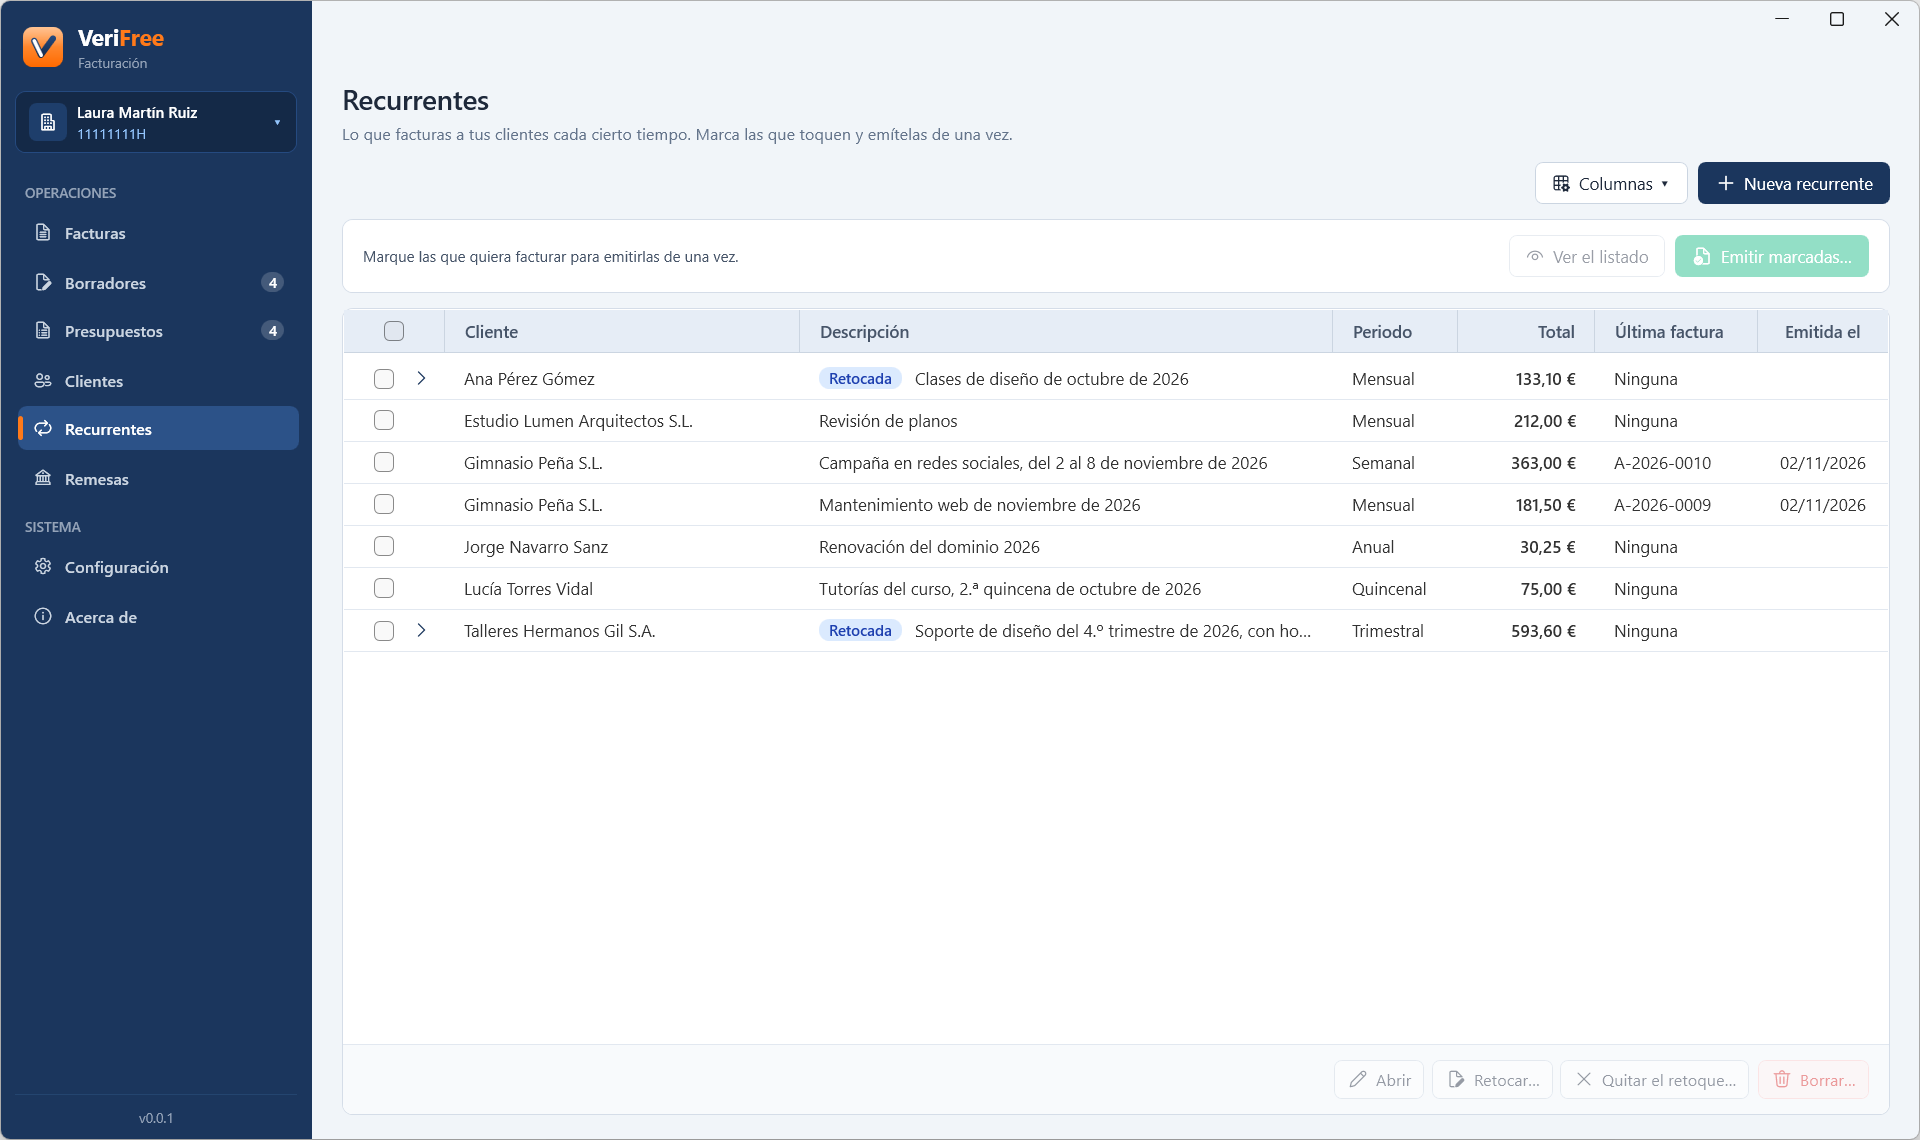
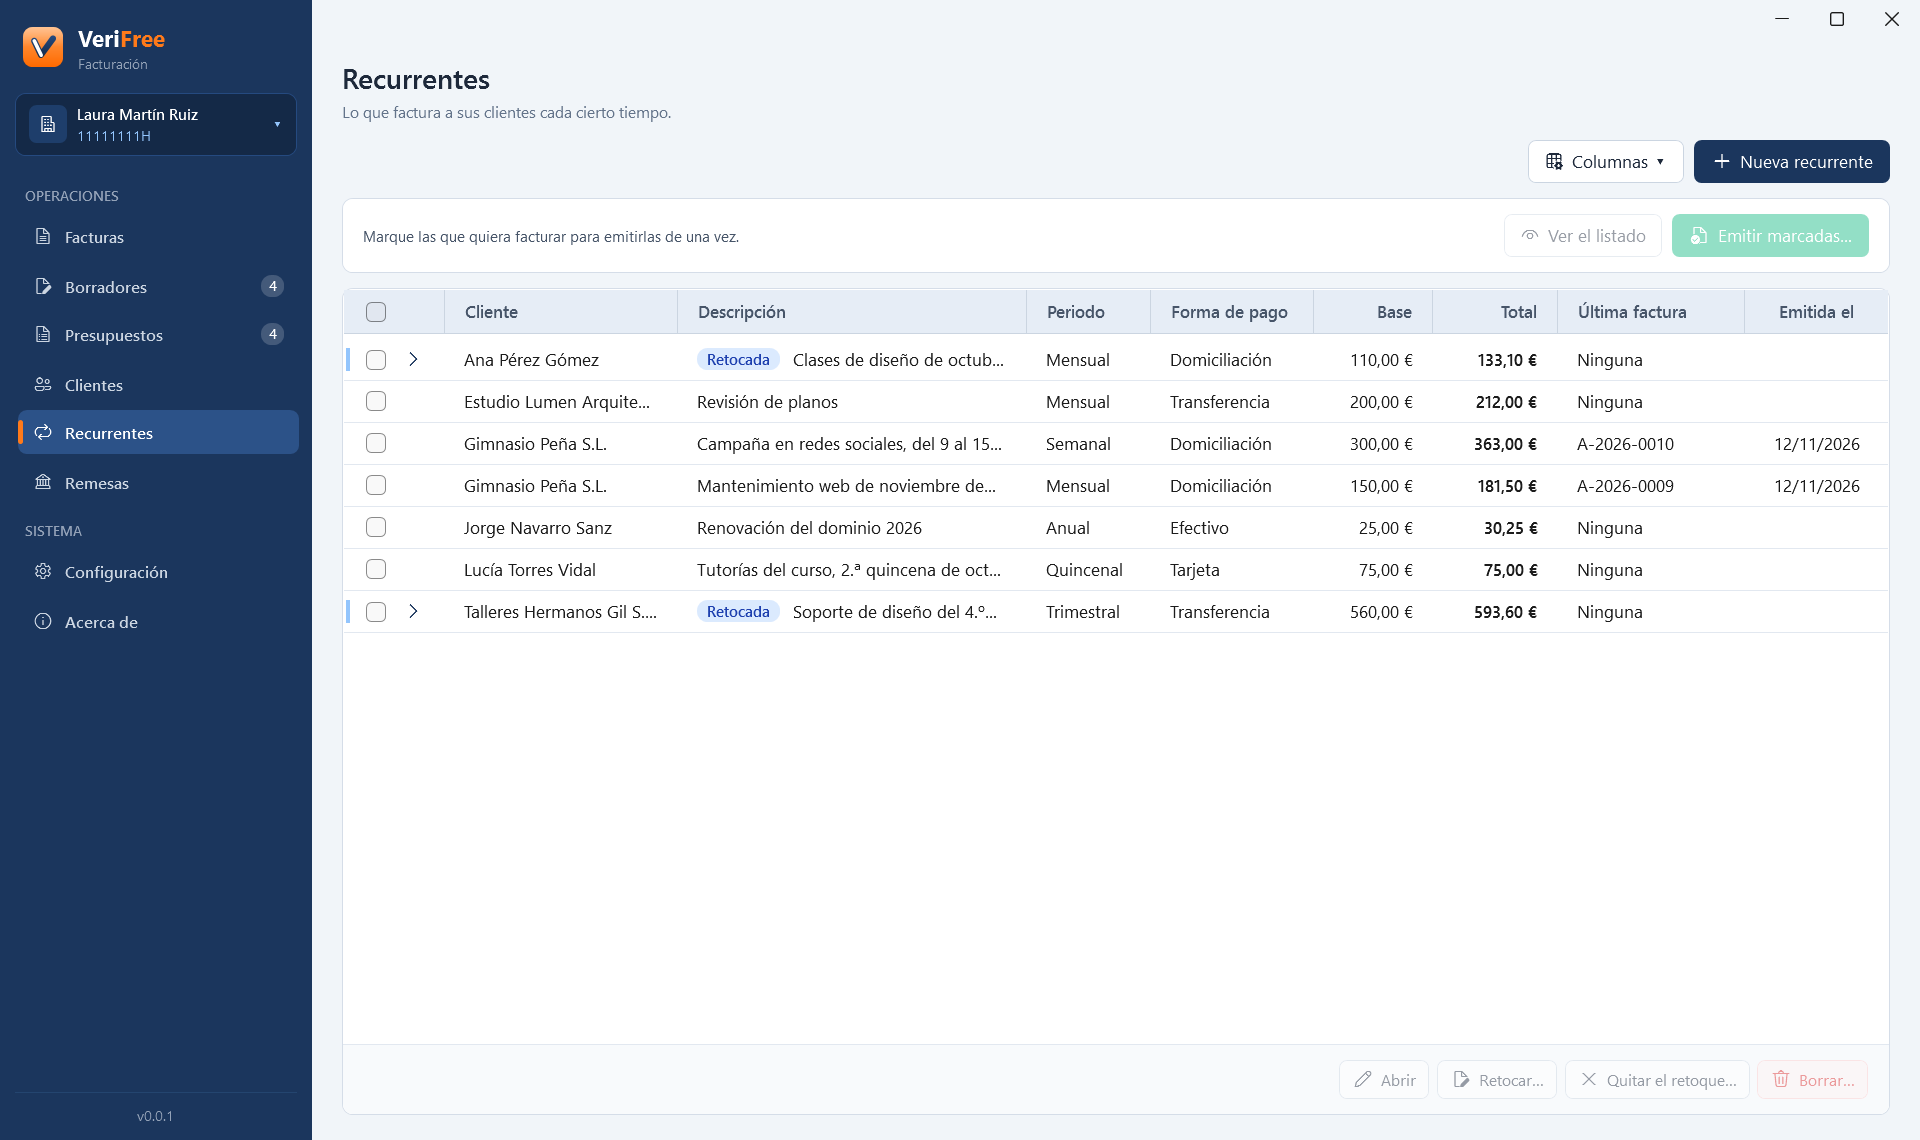
Manual: captura del editor de la factura y Recurrentes al dia
El apartado Hacer una factura lleva la captura del editor con un borrador listo
para emitir. La de Recurrentes, que comparten el manual y Caracteristicas, se
rehace con las columnas Forma de pago y Base y la barra de las retocadas.

diff --git a/manual.html b/manual.html
@@ -138,6 +138,10 @@
           <li><strong>Detalle:</strong> la descripción de la factura, con <strong>Cambiar</strong> (vacía, se usan las de los conceptos), y los conceptos: descripción, cantidad, precio e IVA.</li>
         </ol>
         <p>A la derecha ves los totales y, en <strong>Para emitir falta</strong>, lo que falta («Falta el NIF del cliente»…). Cuando no falta nada, pone <strong>Listo para emitir</strong>.</p>
+        <figure class="captura">
+          <img src="capturas/editor-factura.png" alt="Editor de una factura: el cliente en resumen, la serie y las fechas, los conceptos y, a la derecha, los totales y «Listo para emitir»" width="1920" height="1140" loading="lazy">
+          <figcaption>Datos de ejemplo.</figcaption>
+        </figure>
         <p><strong>Guardar en Borradores</strong> la deja en Borradores, para terminarla o emitirla más tarde. No hay botón Cancelar: sales con el enlace de arriba, que vuelve a la pantalla de la que viniste (<strong>← Borradores</strong>, por ejemplo) y te pregunta si hay cambios sin guardar; <strong>Descartar…</strong> la deja sin guardar. Una factura nueva no existe hasta que la guardas o la emites.</p>
         <p><strong>Vista previa</strong> muestra el PDF del borrador con la marca de agua «BORRADOR»: es un documento interno, no una factura ni una proforma. Para dar al cliente algo antes de facturar, haz un <a href="#presupuestos">presupuesto o una factura proforma</a>.</p>
         <h3>Emitir</h3>
